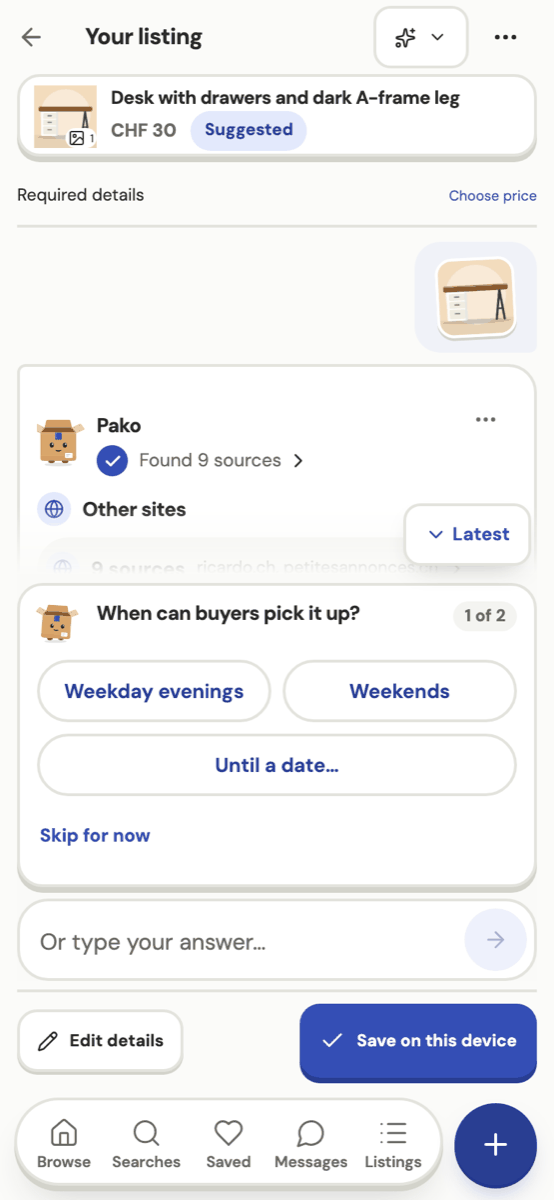
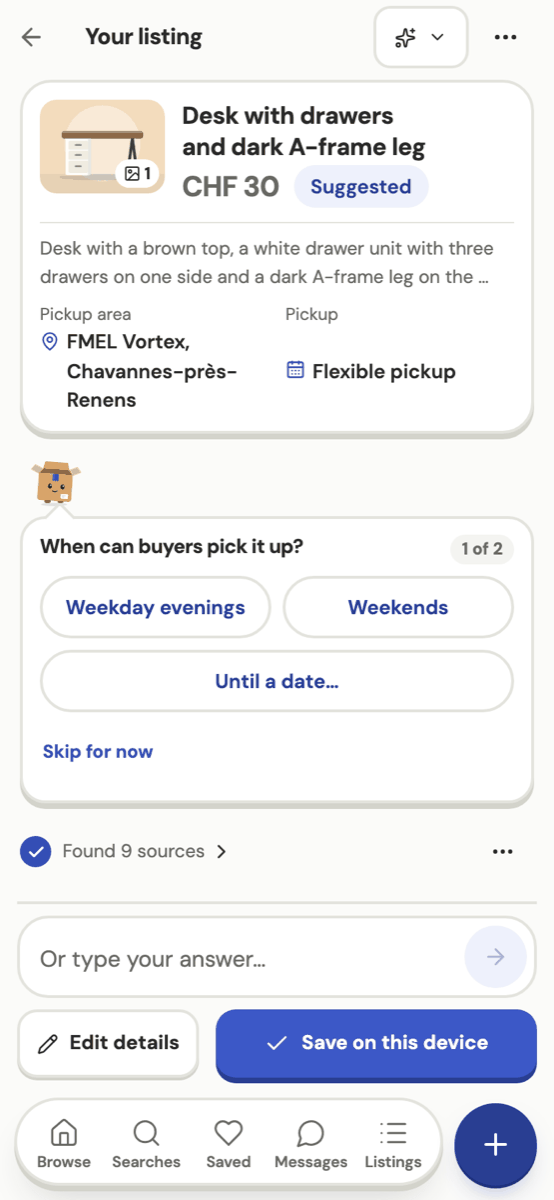
Retake the selling screenshots

Changed region(s): [[0.0307, 0.0617, 0.9819, 0.925], [0.9513, 0.4317, 0.9819, 0.4625]]

diff --git a/docs/WORKFLOWS.md b/docs/WORKFLOWS.md
@@ -36,16 +36,16 @@ The student describes what they need. Pako lists matching student listings first
 
 ## 3. Selling
 
-The student adds a photo. Pako describes the item, asks one question at a time, and suggests a price based on comparable used offers. The student sets the price with the slider or the field and saves the listing. Nothing is published without the student's tap.
+The student adds a photo. Pako describes the item and drafts the listing. Below the draft he asks one question at a time and suggests a price based on comparable used offers; each answer shows on the draft. The student sets the price with the slider or the field and saves the listing. Nothing is published without the student's tap.
 
 ![Selling](screenshots/map-selling.png)
 
 1. [New listing: add photos and pickup location.](screenshots/flow-selling-01-start.png)
 2. [Pako's description of the photo.](screenshots/flow-selling-02-photo-read.png)
-3. [First question with tap answers (pickup times).](screenshots/flow-selling-03-question.png)
-4. [Price card with the suggested price and its basis.](screenshots/flow-selling-04-price-card.png)
-5. [Price changed with the slider.](screenshots/flow-selling-05-slider.png)
-6. [Draft complete, Save on this device.](screenshots/flow-selling-06-ready.png)
+3. [Draft listing on top, Pako's first question below, with tap answers (pickup times).](screenshots/flow-selling-03-question.png)
+4. [Pickup answer on the draft; price card with the suggested price and its basis.](screenshots/flow-selling-04-price-card.png)
+5. [Price changed with the slider; the draft keeps the suggestion until Use CHF 32.](screenshots/flow-selling-05-slider.png)
+6. [Draft complete with the chosen price; Save on this device.](screenshots/flow-selling-06-ready.png)
 7. [The saved listing in My listings.](screenshots/flow-selling-07-my-listings.png)
 
 ## 4. Pickup day
